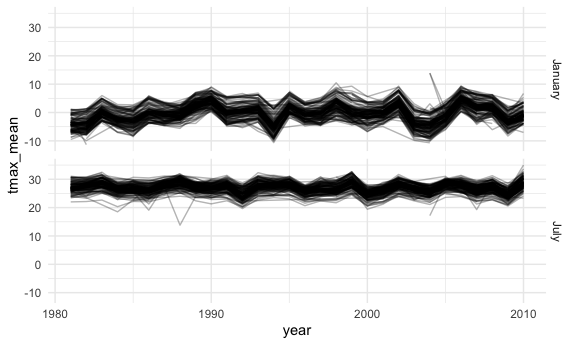
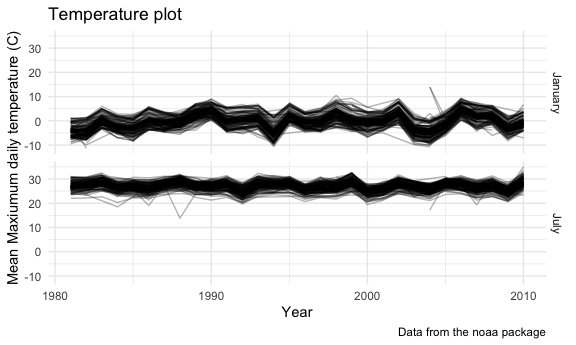
add labels

diff --git a/p8105_hw3_yw3436.md b/p8105_hw3_yw3436.md
@@ -206,7 +206,13 @@ accel_df %>%
   group_by(day_id, hour) %>% 
   mutate(mean_act = mean(activity)) %>% 
   ggplot(aes(x = hour, y = mean_act, color = day, group = day_id)) +
-  geom_line()
+  geom_line() +
+  labs(
+    title = "Activity plot",
+    x = "24 hours",
+    y = "Mean activity counts per hour",
+    caption = "Data from the accelerometer data"
+  )
 ```
 
 <img src="p8105_hw3_yw3436_files/figure-gfm/unnamed-chunk-9-1.png" width="90%" />
@@ -234,7 +240,6 @@ noaa_df = ny_noaa %>%
   mutate(tmax = tmax/10,
          tmin = tmin/10,
          prcp = prcp/10)
-## What does it mean by making sure xx are given in reasonable unit?
 ```
 
 Next, check what are the most commonly observed values for snowfall.
@@ -272,10 +277,15 @@ noaa_df %>%
   filter(month == c("January", "July")) %>% 
   group_by(id, month, year) %>% 
   summarize(tmax_mean = mean(tmax, na.rm = TRUE)) %>% 
-  #na.omit() 
   ggplot(aes(x = year, y = tmax_mean, group = id)) +
   geom_line(alpha = 0.3) +
-  facet_grid(month ~ .)
+  facet_grid(month ~ .) +
+  labs(
+    title = "Temperature plot",
+    x = "Year",
+    y = "Mean Maxiumum daily temperature (C)",
+    caption = "Data from the noaa package"
+ )
 ```
 
     ## `summarise()` regrouping output by 'id', 'month' (override with `.groups` argument)
@@ -312,7 +322,13 @@ knitr::opts_chunk$set(
 tmax_min_p = noaa_df %>% 
   na.omit(tmax,tmin) %>% 
   ggplot(aes(x = tmin, y = tmax)) +
-  geom_hex()
+  geom_hex() +
+  labs(
+    title = "Temperature plot",
+    x = "Minimum daily temperature (C)",
+    y = "Maximum daily temperature (C)",
+    caption = "Data from the noaa package"
+ )
 
 snowfall_df = noaa_df %>% 
   filter(0 < snow, snow < 100) %>% 
@@ -321,7 +337,13 @@ snowfall_df = noaa_df %>%
   mutate(year = as.character(year)) %>% 
   ggplot(aes(x = year, y = snow)) +
   geom_boxplot() +  
-  theme(axis.text.x = element_text(angle = 90, vjust = .5, hjust = 1))
+  theme(axis.text.x = element_text(angle = 90, vjust = .5, hjust = 1)) +
+  labs(
+    title = "Snowfall distribution plot",
+    x = "Year",
+    y = "Snow fall",
+    caption = "Data from the noaa package"
+ )
 
 tmax_min_p / snowfall_df
 ```
